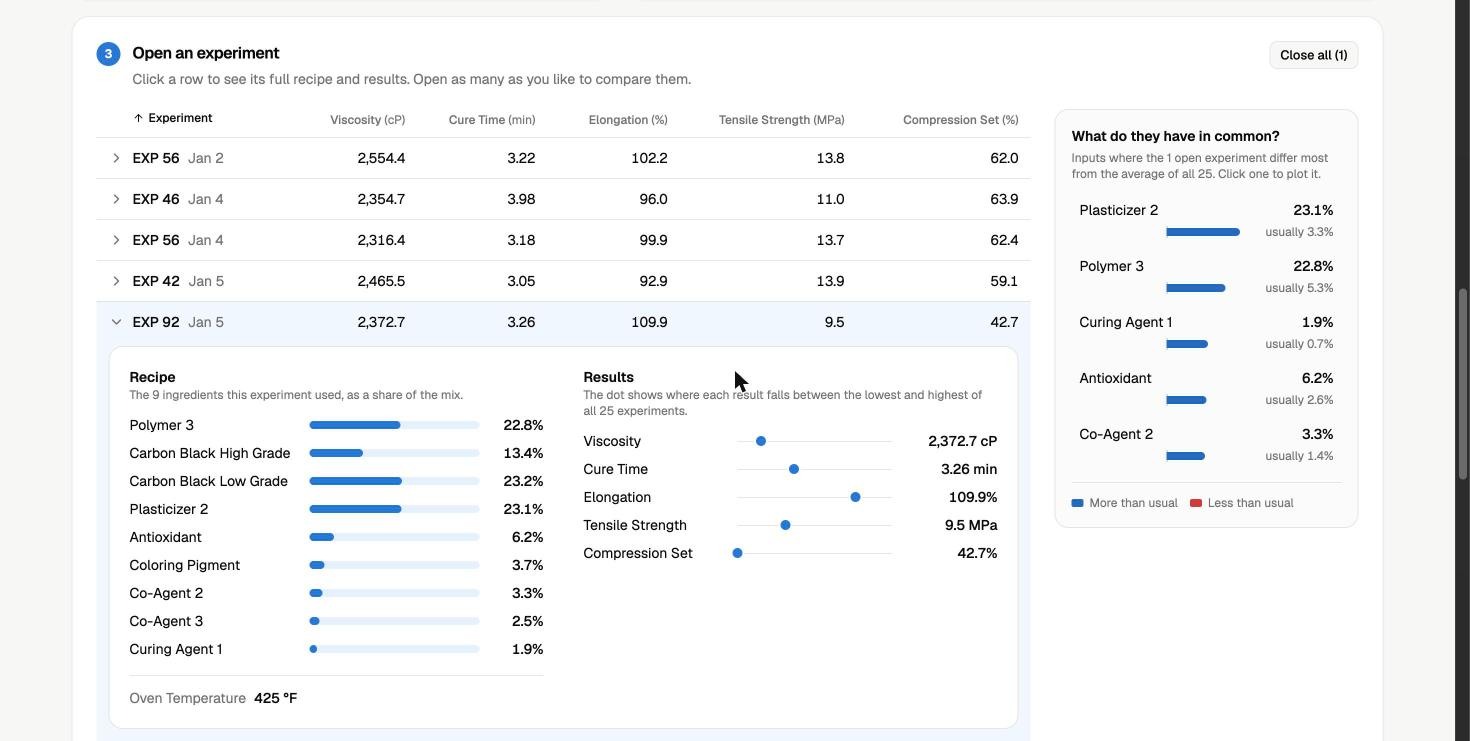
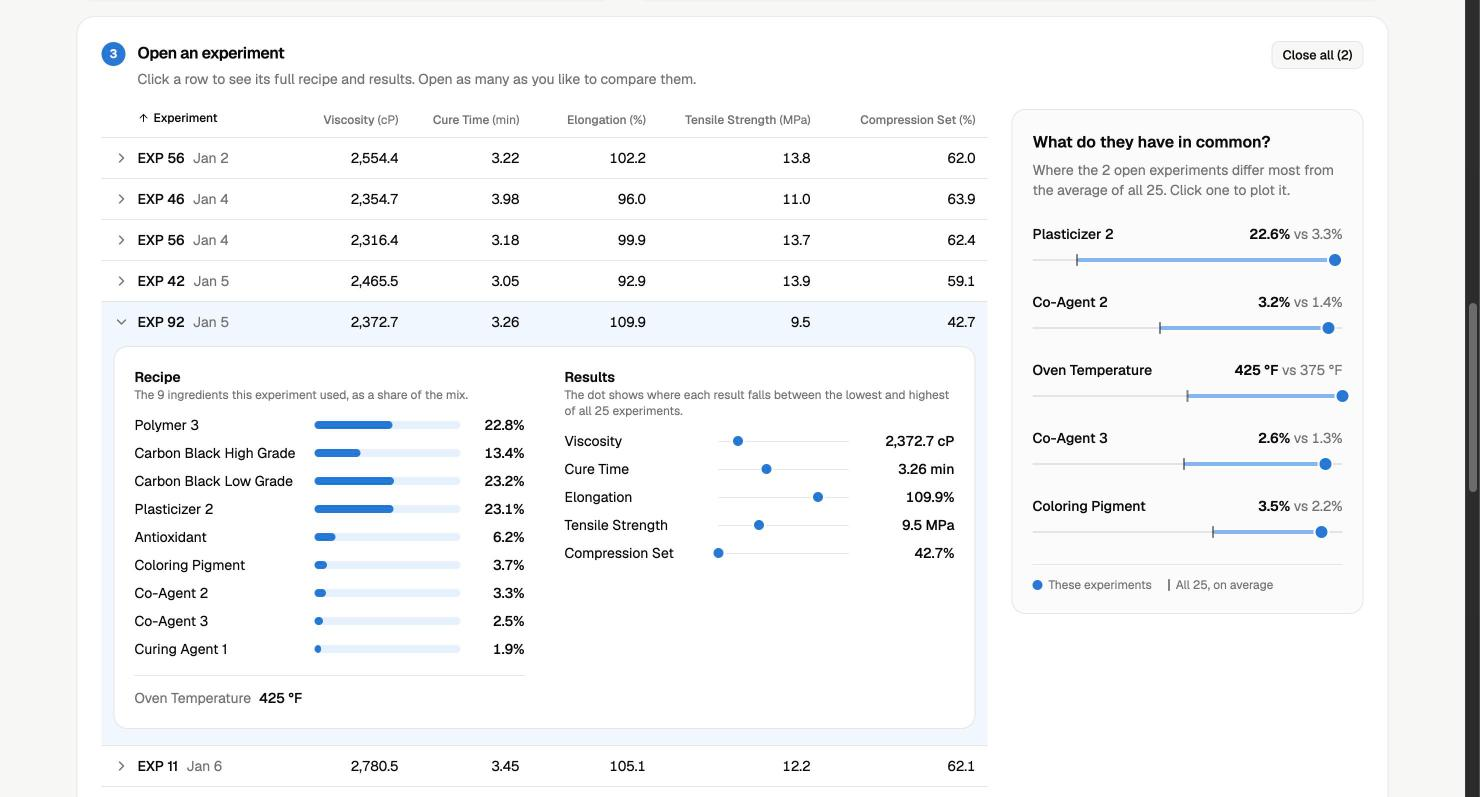
Keep filters always visible; make the comparison card readable
- The measurement filters are a permanent row again, not a collapsible bar.
- "What do they have in common?" draws each input as a dot (this group)
  against a tick (overall average) on the input's own range, lists only
  inputs that differ by at least half a standard deviation, and says so
  plainly when the group is typical on every input.

diff --git a/src/components/SubsetProfile.tsx b/src/components/SubsetProfile.tsx
@@ -1,12 +1,17 @@
 import { useMemo } from 'react'
+import type { Variable } from '@/data'
 import { formatWithUnit } from '@/lib/format'
 import { palette } from '@/lib/palette'
 import { useExplorer } from '@/state/explorerContext'
 import { activeSubset, subsetProfile, type ProfileRow } from '@/state/selectors'
 
 const ROWS_SHOWN = 5
-/** A shift of this many standard deviations fills the whole half of the bar. */
-const FULL_BAR_SHIFT = 3
+/**
+ * An input is only worth listing if the group's average sits at least this
+ * many standard deviations from the overall average. Below that the group
+ * is, for practical purposes, typical on that input.
+ */
+const MIN_SHIFT = 0.5
 
 /**
  * Answers "which inputs produced these results?": for the experiments the
@@ -21,56 +26,79 @@ export function SubsetProfile() {
 
   const subset = useMemo(() => activeSubset(dataset, state, visible), [dataset, state, visible])
   const rows = useMemo(
-    () => (subset ? subsetProfile(dataset, subset.experiments).slice(0, ROWS_SHOWN) : []),
+    () =>
+      subset
+        ? subsetProfile(dataset, subset.experiments)
+            .filter((row) => Math.abs(row.shift) >= MIN_SHIFT)
+            .slice(0, ROWS_SHOWN)
+        : [],
     [dataset, subset],
   )
 
   const count = subset?.experiments.length ?? 0
+  const total = dataset.experiments.length
   const which = subset?.source === 'selection' ? 'open' : 'filtered'
+  const group = `${count} ${which} experiment${count === 1 ? '' : 's'}`
 
   return (
-    <aside className="self-start rounded-xl border bg-muted/40 p-4 lg:sticky lg:top-4">
-      <h3 className="text-sm font-semibold">What do they have in common?</h3>
+    <aside className="self-start rounded-xl border bg-muted/40 p-5 lg:sticky lg:top-4">
+      <h3 className="font-semibold">What do they have in common?</h3>
 
-      {rows.length === 0 ? (
-        <p className="mt-1 text-sm text-pretty text-muted-foreground">
+      {subset === null ? (
+        <p className="mt-1.5 text-sm text-pretty text-muted-foreground">
           Open a few experiments, or filter by a measurement, and the ingredients that set them
           apart will be listed here.
         </p>
+      ) : rows.length === 0 ? (
+        <p className="mt-1.5 text-sm text-pretty text-muted-foreground">
+          The {group} {count === 1 ? 'is' : 'are'} close to the average of all {total} on every
+          input, so nothing sets them apart. Narrow the filter, or open fewer experiments.
+        </p>
       ) : (
         <>
-          <p className="mt-1 mb-3 text-xs text-pretty text-muted-foreground">
-            Inputs where the {count} {which} {count === 1 ? 'experiment differs' : 'experiments differ'}{' '}
-            most from the average of all {dataset.experiments.length}. Click one to plot it.
+          <p className="mt-1.5 mb-4 text-sm text-pretty text-muted-foreground">
+            Where the {group} {count === 1 ? 'differs' : 'differ'} most from the average of all{' '}
+            {total}. Click one to plot it.
           </p>
-          <ul className="grid gap-1">
+          <ul className="grid gap-2">
             {rows.map((row) => (
               <li key={row.variable.key}>
                 <button
                   type="button"
                   title={`Plot ${row.variable.key}`}
                   onClick={() => dispatch({ type: 'setX', key: row.variable.key })}
-                  className="block w-full cursor-pointer rounded-lg px-2 py-1.5 text-left text-sm outline-none hover:bg-card focus-visible:ring-2 focus-visible:ring-brand"
+                  className="-mx-2 block w-[calc(100%+1rem)] cursor-pointer rounded-lg px-2 py-2 text-left text-sm outline-none hover:bg-card focus-visible:ring-2 focus-visible:ring-brand"
                 >
                   <span className="flex items-baseline justify-between gap-3">
-                    <span className="truncate">{row.variable.key}</span>
-                    <span className="font-medium tabular-nums">
-                      {formatWithUnit(row.subsetMean, row.variable)}
+                    <span className="truncate font-medium">{row.variable.key}</span>
+                    <span className="shrink-0 tabular-nums">
+                      <span className="font-semibold">
+                        {formatWithUnit(row.subsetMean, row.variable)}
+                      </span>
+                      <span className="text-muted-foreground">
+                        {' '}
+                        vs {formatWithUnit(row.overallMean, row.variable)}
+                      </span>
                     </span>
                   </span>
-                  <span className="mt-1 flex items-center gap-3">
-                    <ShiftBar shift={row.shift} />
-                    <span className="text-xs text-muted-foreground tabular-nums">
-                      usually {formatWithUnit(row.overallMean, row.variable)}
-                    </span>
-                  </span>
+                  <ComparisonTrack row={row} />
                 </button>
               </li>
             ))}
           </ul>
-          <p className="mt-3 flex items-center gap-3 border-t pt-3 text-xs text-muted-foreground">
-            <LegendSwatch color={palette.positive} label="More than usual" />
-            <LegendSwatch color={palette.negative} label="Less than usual" />
+          <p className="mt-4 flex flex-wrap items-center gap-x-4 gap-y-1 border-t pt-3 text-xs text-muted-foreground">
+            <span className="inline-flex items-center gap-1.5">
+              <span
+                aria-hidden
+                className="size-2.5 rounded-full"
+                style={{ backgroundColor: palette.series }}
+              />
+              These experiments
+            </span>
+            <span className="inline-flex items-center gap-1.5">
+              <span aria-hidden className="h-3 w-0.5 rounded-full bg-foreground/50" />
+              All {total}, on average
+            </span>
           </p>
         </>
       )}
@@ -78,31 +106,39 @@ export function SubsetProfile() {
   )
 }
 
-function LegendSwatch({ color, label }: { color: string; label: string }) {
-  return (
-    <span className="inline-flex items-center gap-1.5">
-      <span aria-hidden className="h-2 w-3 rounded-xs" style={{ backgroundColor: color }} />
-      {label}
-    </span>
-  )
+/** Where a value falls along a variable's full range, from 0 to 1. */
+function positionOf(value: number, variable: Variable): number {
+  const [min, max] = variable.extent
+  return max === min ? 0.5 : Math.min(1, Math.max(0, (value - min) / (max - min)))
 }
 
-/** A bar growing right (more than usual) or left (less than usual) from a centre line. */
-function ShiftBar({ shift }: Pick<ProfileRow, 'shift'>) {
-  const size = (Math.min(Math.abs(shift), FULL_BAR_SHIFT) / FULL_BAR_SHIFT) * 50
-  const isHigher = shift > 0
+/**
+ * A line across the input's full range with two marks on it: a tick for the
+ * overall average and a dot for this group's average, joined by a bar. The
+ * gap between them is the difference, in the input's own units.
+ */
+function ComparisonTrack({ row }: { row: ProfileRow }) {
+  const group = positionOf(row.subsetMean, row.variable) * 100
+  const overall = positionOf(row.overallMean, row.variable) * 100
 
   return (
-    <span aria-hidden className="relative h-3 flex-1">
-      <span className="absolute inset-y-0 left-1/2 w-px bg-foreground/25" />
+    <span aria-hidden className="relative mt-2 block h-4">
+      <span className="absolute inset-x-0 top-1/2 h-0.5 -translate-y-1/2 rounded-full bg-foreground/10" />
       <span
-        // Rounded at the data end, square where it meets the centre line.
-        className={isHigher ? 'absolute inset-y-0.5 rounded-r-sm' : 'absolute inset-y-0.5 rounded-l-sm'}
+        className="absolute top-1/2 h-1 -translate-y-1/2 rounded-full"
         style={{
-          width: `${size}%`,
-          left: isHigher ? '50%' : `${50 - size}%`,
-          backgroundColor: isHigher ? palette.positive : palette.negative,
+          left: `${Math.min(group, overall)}%`,
+          width: `${Math.abs(group - overall)}%`,
+          backgroundColor: palette.sequentialLow,
         }}
+      />
+      <span
+        className="absolute top-1/2 h-3 w-0.5 -translate-x-1/2 -translate-y-1/2 rounded-full bg-foreground/50"
+        style={{ left: `${overall}%` }}
+      />
+      <span
+        className="absolute top-1/2 size-3 -translate-x-1/2 -translate-y-1/2 rounded-full ring-2 ring-card"
+        style={{ left: `${group}%`, backgroundColor: palette.series }}
       />
     </span>
   )

diff --git a/src/components/FilterBar.tsx b/src/components/FilterBar.tsx
@@ -1,5 +1,5 @@
-import { ChevronDown, SlidersHorizontal, X } from 'lucide-react'
-import { useId, useMemo, useState } from 'react'
+import { X } from 'lucide-react'
+import { useMemo } from 'react'
 import { Histogram } from '@/components/charts/Histogram'
 import { Button } from '@/components/ui/button'
 import { Slider } from '@/components/ui/slider'
@@ -13,77 +13,63 @@ import { column, describeRange } from '@/state/selectors'
 const BIN_COUNT = 12
 
 /**
- * A slim bar above the views it affects. It always shows how many
- * experiments are in play and which filters are active; the sliders
- * themselves stay tucked away until asked for, so the first thing a new
- * user sees is the data, not the controls.
+ * One range filter per measured output, in a single row above the views it
+ * affects. Every active filter (including ones set from the command bar on
+ * inputs, which have no slider here) appears as a removable chip.
  */
 export function FilterBar() {
   const { dataset, state, dispatch, visible } = useExplorer()
-  const panelId = useId()
   const activeKeys = Object.keys(state.filters)
-  // A link that arrives with filters should show where they came from.
-  const [isOpen, setIsOpen] = useState(activeKeys.length > 0)
 
   return (
-    <section className="rounded-2xl border border-border/80 bg-card shadow-xs">
-      <div className="flex flex-wrap items-center gap-2 px-4 py-2.5 sm:px-5">
-        <Button
-          variant="outline"
-          size="sm"
-          aria-expanded={isOpen}
-          aria-controls={panelId}
-          onClick={() => setIsOpen(!isOpen)}
-        >
-          <SlidersHorizontal aria-hidden />
-          Filter by measurement
-          <ChevronDown aria-hidden className={cn('transition-transform', isOpen && 'rotate-180')} />
-        </Button>
-
-        {activeKeys.map((key) => {
-          const variable = dataset.variable(key)
-          if (!variable) return null
-          return (
-            <Button
-              key={key}
-              variant="secondary"
-              size="sm"
-              aria-label={`Remove filter on ${key}`}
-              onClick={() => dispatch({ type: 'setFilter', key, range: null })}
-            >
-              <span>
-                {key}{' '}
-                <span className="tabular-nums">{describeRange(variable, state.filters[key])}</span>
-              </span>
-              <X aria-hidden />
-            </Button>
-          )
-        })}
-        {activeKeys.length > 0 && (
-          <Button variant="ghost" size="sm" onClick={() => dispatch({ type: 'clearFilters' })}>
-            Clear filters
-          </Button>
-        )}
-
-        <p className="ml-auto text-sm text-muted-foreground">
-          <span className="font-semibold text-foreground tabular-nums">{visible.length}</span> of{' '}
-          {dataset.experiments.length} experiments shown
-        </p>
-      </div>
-
-      {isOpen && (
-        <div id={panelId} className="border-t px-4 py-5 sm:px-6">
-          <p className="mb-4 text-sm text-muted-foreground">
-            Drag a handle to keep only the experiments that measured inside that range. Blue bars
-            are the experiments still shown.
+    <section className="rounded-2xl border border-border/80 bg-card p-5 shadow-xs sm:p-6">
+      <header className="mb-5 flex flex-wrap items-start justify-between gap-x-6 gap-y-3">
+        <div className="min-w-0">
+          <h2 className="text-base leading-6 font-semibold tracking-tight">
+            Filter by measurement
+          </h2>
+          <p className="mt-1 text-sm text-pretty text-muted-foreground">
+            Drag a handle to keep only the experiments that measured inside that range.{' '}
+            <span className="font-semibold text-foreground tabular-nums">{visible.length}</span> of{' '}
+            {dataset.experiments.length} shown.
           </p>
-          <div className="grid gap-x-8 gap-y-6 sm:grid-cols-2 lg:grid-cols-5">
-            {dataset.outputs.map((output) => (
-              <RangeFilter key={output.key} variable={output} />
-            ))}
-          </div>
         </div>
-      )}
+
+        {activeKeys.length > 0 && (
+          <div className="flex flex-wrap items-center justify-end gap-1.5">
+            {activeKeys.map((key) => {
+              const variable = dataset.variable(key)
+              if (!variable) return null
+              return (
+                <Button
+                  key={key}
+                  variant="secondary"
+                  size="sm"
+                  aria-label={`Remove filter on ${key}`}
+                  onClick={() => dispatch({ type: 'setFilter', key, range: null })}
+                >
+                  <span>
+                    {key}{' '}
+                    <span className="tabular-nums">
+                      {describeRange(variable, state.filters[key])}
+                    </span>
+                  </span>
+                  <X aria-hidden />
+                </Button>
+              )
+            })}
+            <Button variant="ghost" size="sm" onClick={() => dispatch({ type: 'clearFilters' })}>
+              Clear filters
+            </Button>
+          </div>
+        )}
+      </header>
+
+      <div className="grid gap-x-8 gap-y-6 sm:grid-cols-2 lg:grid-cols-5">
+        {dataset.outputs.map((output) => (
+          <RangeFilter key={output.key} variable={output} />
+        ))}
+      </div>
     </section>
   )
 }

diff --git a/src/components/ExperimentList.tsx b/src/components/ExperimentList.tsx
@@ -62,7 +62,7 @@ export function ExperimentList() {
       }
     >
       {/* The summary sits beside the list, so opening a row never shifts the list itself. */}
-      <div className="grid gap-6 lg:grid-cols-[minmax(0,1fr)_19rem]">
+      <div className="grid gap-6 lg:grid-cols-[minmax(0,1fr)_22rem]">
         {rows.length === 0 ? (
           <p className="py-10 text-center text-sm text-muted-foreground">
             No experiments match the current filters.

diff --git a/README.md b/README.md
@@ -42,14 +42,16 @@ one updates the others.
    values; click or drag to open experiments.
 3. **Open an experiment.** One compact row per experiment. Opening a row shows
    its recipe and results, and any number can be open at once. Beside the
-   list, "What do they have in common?" ranks the inputs that set the open
-   (or filtered) experiments apart from the rest.
+   list, "What do they have in common?" shows the inputs where the open (or
+   filtered) experiments differ most from the average, each as a dot against
+   the overall average on that input's own scale. If the group is typical on
+   every input, it says so.
 
 Also:
 
-- **Filter by measurement.** Tucked behind one button so the first view stays
-  calm. Each output gets a range slider and a histogram; narrowing one shows,
-  in blue, where the remaining experiments fall on all the others.
+- **Filter by measurement.** A row above the three steps. Each output gets a
+  range slider and a histogram; narrowing one shows, in blue, where the
+  remaining experiments fall on all the others.
 - **Command bar** (`⌘K`). Type a request instead of clicking:
   `plot elongation vs polymer 4`, `compression set < 55`,
   `with plasticizer 2`, `colour by oven temperature`, `sort by viscosity`,
@@ -117,9 +119,9 @@ Data flows one way:
 - **Plain language over jargon.** The page never asks the reader to know what
   "r" is. It states the relationship in a sentence and explains correlation in
   a tooltip.
-- **Show less by default.** Filters, recipes and the comparison summary appear
-  when asked for. Selecting an experiment and opening its details are one
-  action, not two concepts.
+- **Show less by default.** An experiment is one line until it is opened, and
+  only then lists the ingredients it actually used. Selecting an experiment
+  and opening its details are one action, not two concepts.
 - **Axes stay fixed while you filter.** The scatterplot always spans the whole
   dataset and keeps filtered-out experiments as faint grey dots, so you can
   see where the remaining ones sit instead of watching the axes jump.
